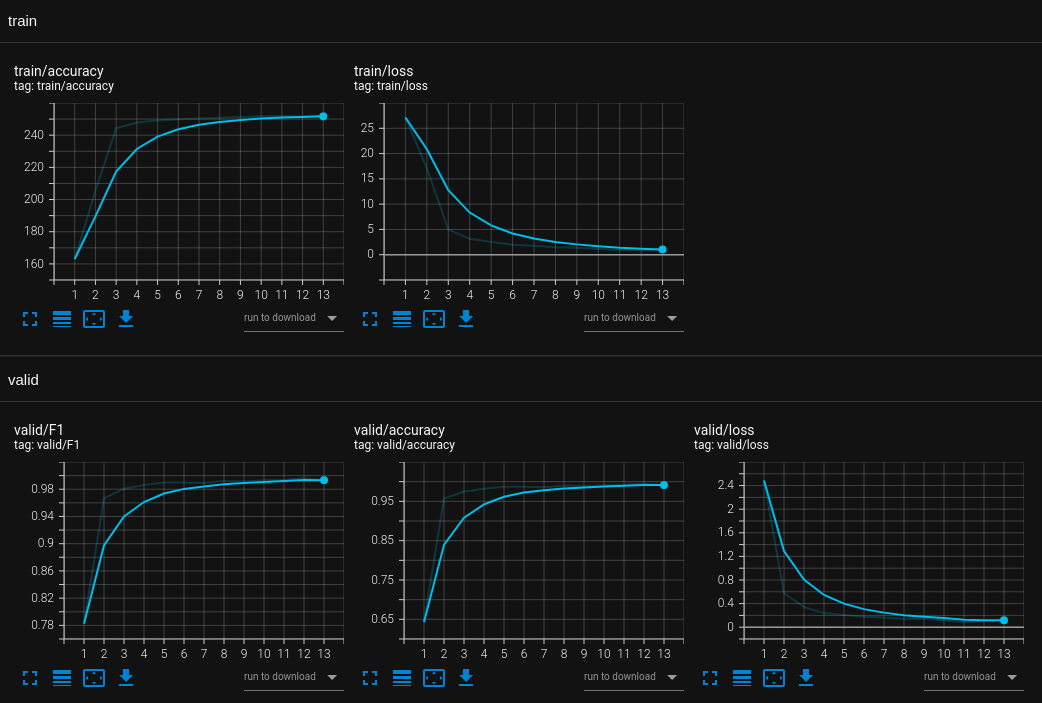
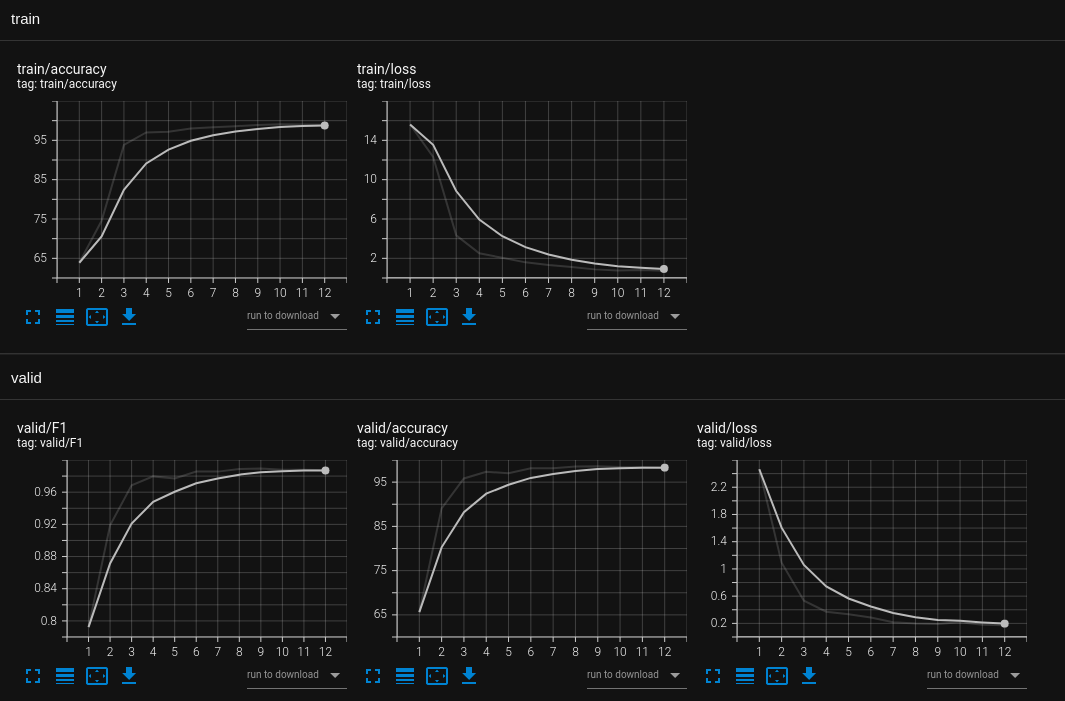
change graph

diff --git a/train.py b/train.py
@@ -67,7 +67,7 @@ def train(epoch, train_loader, valid_loader, criterion, start):
     print('[{}] Train Epoch: {} Loss: {:.2f} Accuracy: {:.6f}'.format(time_since(start),
                                                                       epoch, train_loss, 100 * train_accuracy/len(train_loader.dataset)))
     writer.add_scalar("train/loss", train_loss, epoch)
-    writer.add_scalar("train/accuracy", train_accuracy/len(train_loader), epoch)
+    writer.add_scalar("train/accuracy", 100 * train_accuracy/len(train_loader.dataset), epoch)
     valid_loss = 0
     valid_accuracy = 0
     valid_epoch_pred = []
@@ -86,7 +86,7 @@ def train(epoch, train_loader, valid_loader, criterion, start):
 
     valid_f1 = calc_f1(torch.cat(valid_epoch_pred), torch.cat(valid_epoch_target))
     writer.add_scalar("valid/loss", valid_loss, epoch)
-    writer.add_scalar("valid/accuracy", valid_accuracy/len(valid_loader.dataset), epoch)
+    writer.add_scalar("valid/accuracy", 100 * valid_accuracy/len(valid_loader.dataset), epoch)
     writer.add_scalar("valid/F1", valid_f1, epoch)
     print('[{}] Valid Epoch: {} Loss: {:.6f} Accuracy: {:.2f} F1: {:.6f}'.format(time_since(start), epoch, valid_loss,
                                                                       100 * valid_accuracy/len(valid_loader.dataset), valid_f1))
